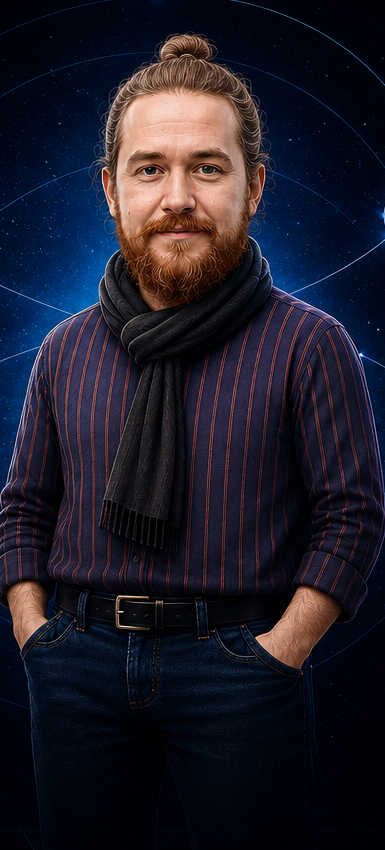
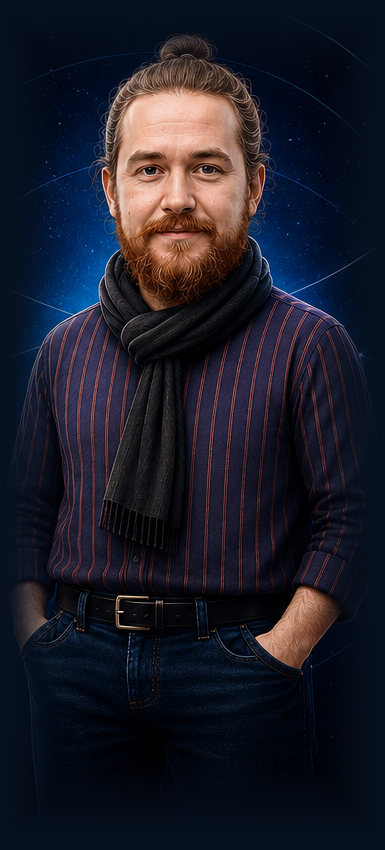
v_524

diff --git a/css/style.css b/css/style.css
@@ -323,3 +323,19 @@ body:after{content:"";position:fixed;inset:0;pointer-events:none;z-index:9999;op
   .hero-network{left:50%;top:29%;width:94vw;height:80vw;opacity:.48}
 }
 @media(max-width:560px){.avatar-system-v51{width:92vw;height:min(680px,74vh)}.hero-network{opacity:.34}}
+
+/* V5.2.4 — integrate avatar artwork with the page background */
+.avatar-system-v51 .avatar-core-v52 img{
+  mix-blend-mode:normal;
+  filter:saturate(.88) contrast(1.01);
+}
+.avatar-system-v51 .avatar-halo{
+  inset:12%;
+  background:
+    radial-gradient(circle at 50% 48%,
+      rgba(65,125,188,.16) 0%,
+      rgba(65,125,188,.08) 36%,
+      rgba(65,125,188,.025) 58%,
+      transparent 74%);
+  filter:blur(10px);
+}
